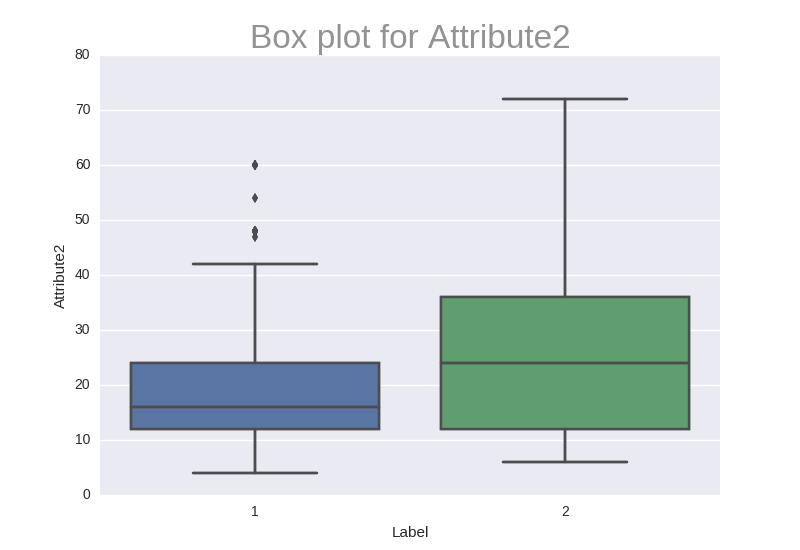
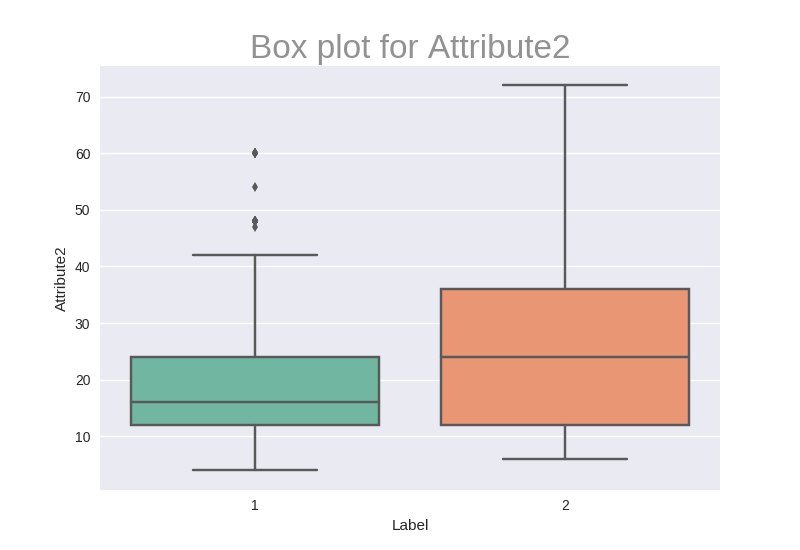
Rename main.py to visualization.py, change colors

diff --git a/visualization.py b/visualization.py
@@ -1,14 +1,16 @@
-
 import pandas as pd
-
 import random
+import os
 import matplotlib.pyplot as plt
 import seaborn as sns
+from sklearn.feature_extraction import DictVectorizer as DV
 
 print "*****************  DATA LOADING *********************"
+
 df = pd.read_csv('./dataSets/train.tsv', sep='\t', header=0)
 
-# Removing Id feature because a sequential feature like this is not good.
+# Removing Id feature because a sequential feature like this is not good
+
 df = df.drop('Id', 1)
 
 x=df.loc[df['Label'] == 2]
@@ -19,17 +21,24 @@ def is_categorical(array_like):
 
 sns.set(color_codes=True)
 
-print "********************   GENERATE HISTOGRAMS AND BOX PLOTS *******************"
+print "******** GENERATE HISTOGRAMS AND BOX PLOTS **********"
+
 # Looping on features excluding the 'Label' field
+
 for i, column in enumerate(df.drop('Label', 1)):
     if(is_categorical(df[column])):
         fig=sns.plt.figure(i)
-        g = sns.countplot(y=column, hue="Label", data=df, palette="Reds_d");
+        g = sns.countplot(y=column, hue="Label", data=df, palette="Set2");
         g.axes.set_title("Histogram for " + column, fontsize=24,alpha=0.5)
         fig.savefig('output/histograms/'+ column);
     else:
         fig=sns.plt.figure(i)
-        sns.boxplot(y=column, x="Label", data=df);
-        g = sns.boxplot(y=column, x="Label", data=df);
+        g = sns.boxplot(y=column, x="Label", data=df, palette="Set2");
         g.axes.set_title("Box plot for " + column, fontsize=24,alpha=0.5)
         fig.savefig('output/boxPlots/'+ column);
+
+
+
+
+
+
